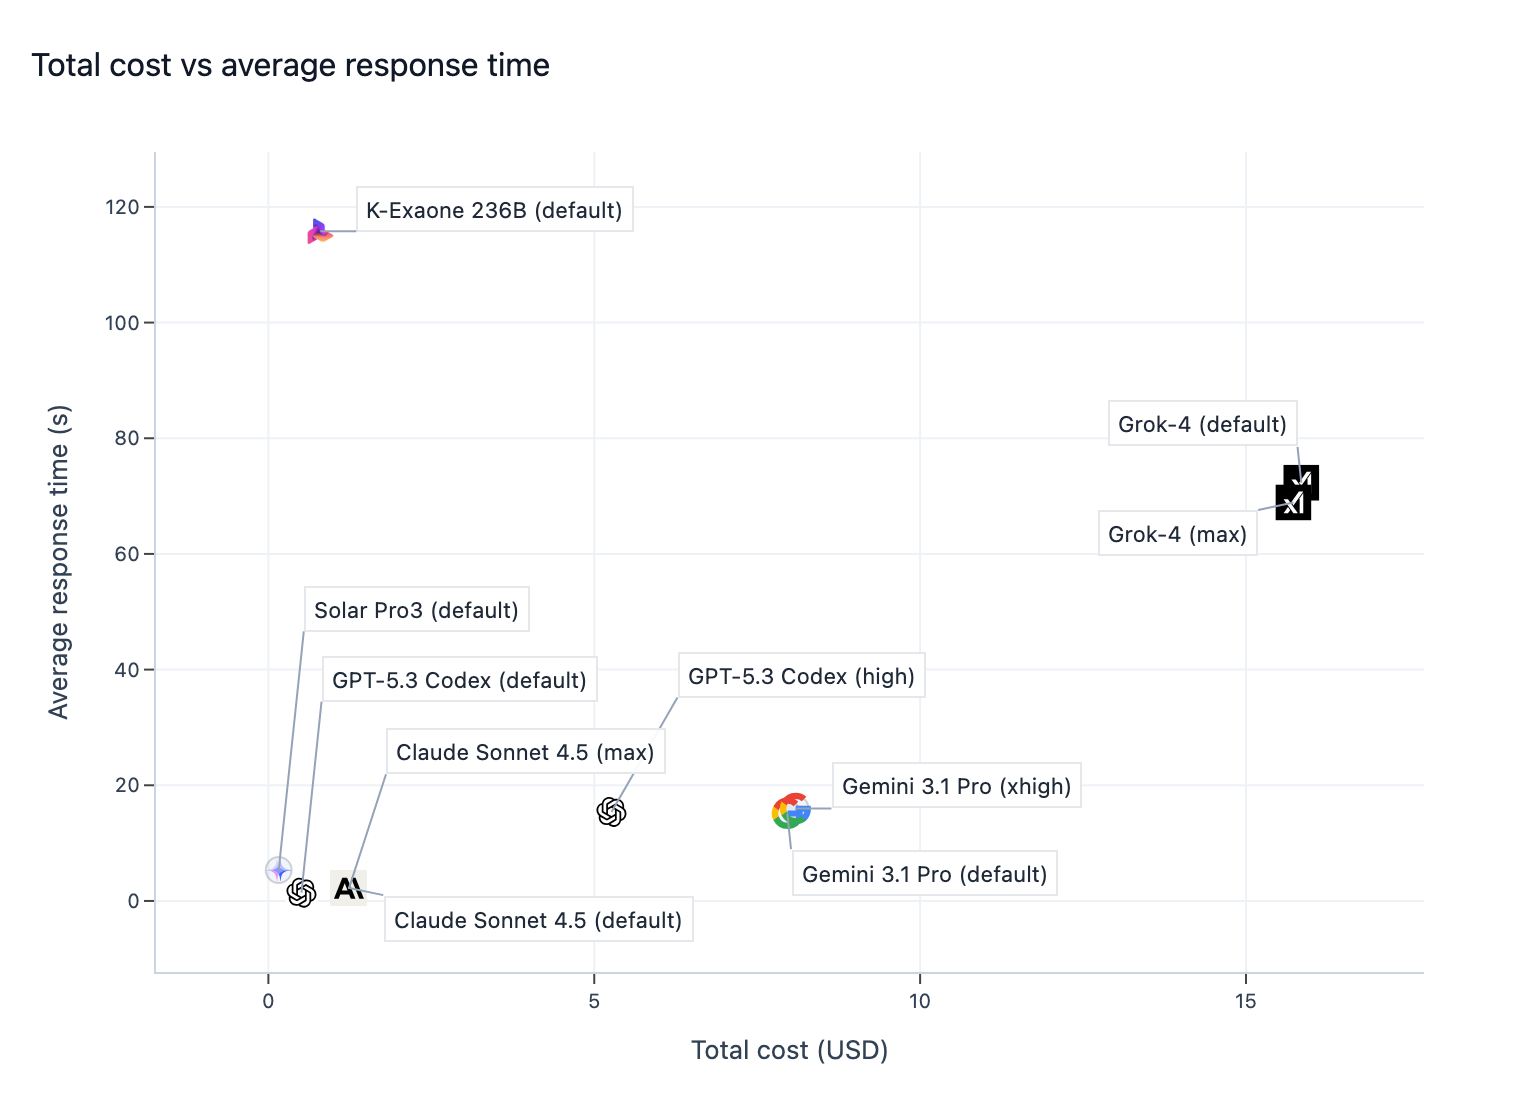
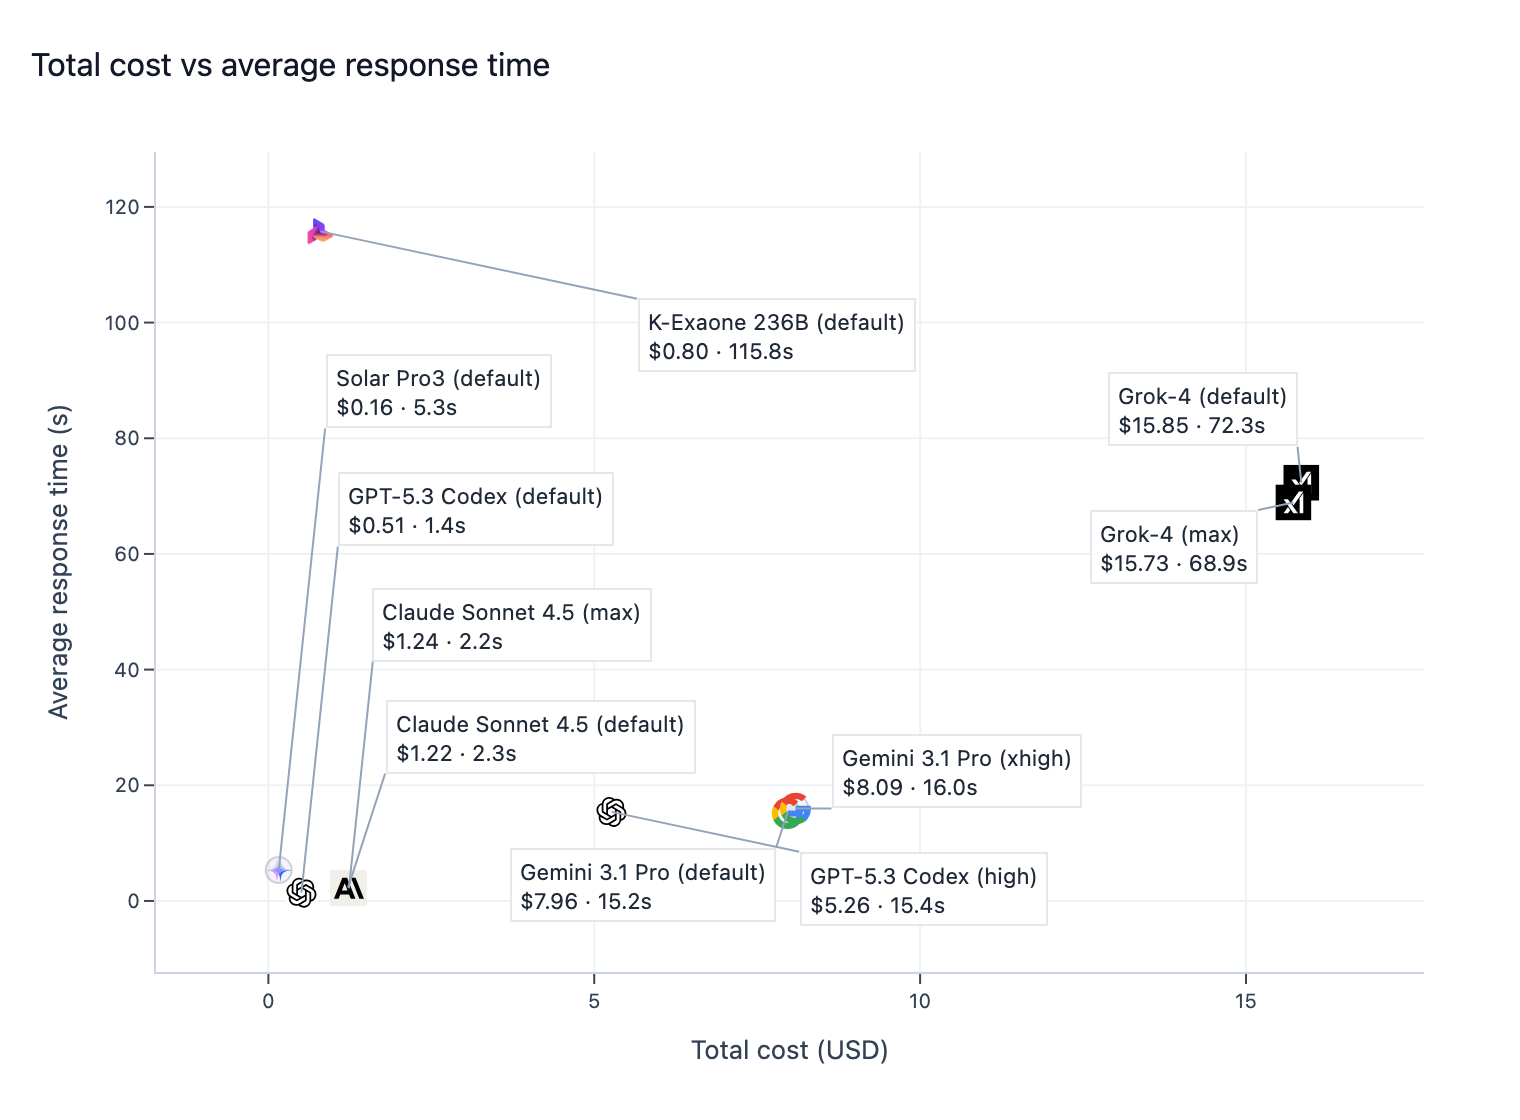
Full revision: render charts as static images, keep tables as markdown
Rebuild the static report directly from the rendered HTML instead of
routing through the Quarto source. Bar charts and heatmaps (leaderboard,
score breakdowns, difficulty, error counts, exam-type/category accuracy)
are now real matplotlib-rendered images with the original YlGnBu color
scale, while the per-exam raw correctness grids stay as collapsible
markdown tables since they're read as lookups rather than viewed as
visualizations. Also fixes title clipping on narrow (2-column) heatmaps
and carries over the updated cost/speed labels (value annotations).

diff --git a/README.md b/README.md
@@ -4,6 +4,8 @@ Static snapshot of an interactive analysis comparing how different LLMs (GPT, Cl
 
 ## Model Leaderboard
 
+![Composite index by model](images/leaderboard.png)
+
 | Rank | Model | Composite Index | Overall Pass@1 (%) | Valid-Response Pass@1 (%) | Error Rate (%) | Cost (USD) | Avg Response Time (s) |
 |---|---|---|---|---|---|---|---|
 | 1 | GPT-5.3 Codex (high) | 100.0 | 100.0 | 100.0 | 0.0 | 5.264 | 15.4 |
@@ -21,97 +23,31 @@ Static snapshot of an interactive analysis comparing how different LLMs (GPT, Cl
 
 ### Model by point-value heatmap: Overall Pass@1 (%)
 
-|  | 2 pt | 3 pt |
-|---|---|---|
-| GPT-5.3 Codex (high) | 100 | 100 |
-| Gemini 3.1 Pro (default) | 100 | 99.33 |
-| Gemini 3.1 Pro (xhigh) | 99.33 | 99.33 |
-| Grok-4 (default) | 94.00 | 91.33 |
-| Grok-4 (max) | 92.67 | 90.67 |
-| GPT-5.3 Codex (default) | 54.67 | 54.00 |
-| Claude Sonnet 4.5 (default) | 57.33 | 49.33 |
-| Claude Sonnet 4.5 (max) | 56.67 | 48.00 |
-| K-Exaone 236B (default) | 64.00 | 68.67 |
-| Solar Pro3 (default) | 46.67 | 34.67 |
+![Model by point-value heatmap: Overall Pass@1 (%)](images/points_overall.png)
 
 ### Model by point-value heatmap: Valid-Response Pass@1 (%)
 
-|  | 2 pt | 3 pt |
-|---|---|---|
-| GPT-5.3 Codex (high) | 100 | 100 |
-| Gemini 3.1 Pro (default) | 100 | 99.33 |
-| Gemini 3.1 Pro (xhigh) | 99.33 | 99.33 |
-| Grok-4 (default) | 99.30 | 98.56 |
-| Grok-4 (max) | 98.58 | 97.14 |
-| GPT-5.3 Codex (default) | 54.67 | 54.00 |
-| Claude Sonnet 4.5 (default) | 57.33 | 49.33 |
-| Claude Sonnet 4.5 (max) | 56.67 | 48.00 |
-| K-Exaone 236B (default) | 98.97 | 99.04 |
-| Solar Pro3 (default) | 46.67 | 34.67 |
+![Model by point-value heatmap: Valid-Response Pass@1 (%)](images/points_valid.png)
 
 ## 3. Score Performance By Image Presence
 
 ### Model by image-presence heatmap: Overall Pass@1 (%)
 
-|  | No Image | Image |
-|---|---|---|
-| GPT-5.3 Codex (high) | 100 | 100 |
-| Gemini 3.1 Pro (default) | 100 | 99.13 |
-| Gemini 3.1 Pro (xhigh) | 99.46 | 99.13 |
-| Grok-4 (default) | 92.43 | 93.04 |
-| Grok-4 (max) | 93.51 | 88.70 |
-| GPT-5.3 Codex (default) | 51.89 | 58.26 |
-| Claude Sonnet 4.5 (default) | 54.05 | 52.17 |
-| Claude Sonnet 4.5 (max) | 52.43 | 52.17 |
-| K-Exaone 236B (default) | 66.49 | 66.09 |
-| Solar Pro3 (default) | 42.16 | 38.26 |
+![Model by image-presence heatmap: Overall Pass@1 (%)](images/image_presence_overall.png)
 
 ### Model by image-presence heatmap: Valid-Response Pass@1 (%)
 
-|  | No Image | Image |
-|---|---|---|
-| GPT-5.3 Codex (high) | 100 | 100 |
-| Gemini 3.1 Pro (default) | 100 | 99.13 |
-| Gemini 3.1 Pro (xhigh) | 99.46 | 99.13 |
-| Grok-4 (default) | 98.28 | 100 |
-| Grok-4 (max) | 97.74 | 98.08 |
-| GPT-5.3 Codex (default) | 51.89 | 58.26 |
-| Claude Sonnet 4.5 (default) | 54.05 | 52.17 |
-| Claude Sonnet 4.5 (max) | 52.43 | 52.17 |
-| K-Exaone 236B (default) | 99.19 | 98.70 |
-| Solar Pro3 (default) | 42.16 | 38.26 |
+![Model by image-presence heatmap: Valid-Response Pass@1 (%)](images/image_presence_valid.png)
 
 ## 4. Point Value x Image Presence
 
 ### Model by point-image segment heatmap: Overall Pass@1 (%)
 
-|  | 2 pt / Image | 2 pt / No Image | 3 pt / Image | 3 pt / No Image |
-|---|---|---|---|---|
-| GPT-5.3 Codex (high) | 100 | 100 | 100 | 100 |
-| Gemini 3.1 Pro (default) | 100 | 100 | 98.18 | 100 |
-| Gemini 3.1 Pro (xhigh) | 100 | 98.89 | 98.18 | 100 |
-| Grok-4 (default) | 93.33 | 94.44 | 92.73 | 90.53 |
-| Grok-4 (max) | 86.67 | 96.67 | 90.91 | 90.53 |
-| GPT-5.3 Codex (default) | 55.00 | 54.44 | 61.82 | 49.47 |
-| Claude Sonnet 4.5 (default) | 50.00 | 62.22 | 54.55 | 46.32 |
-| Claude Sonnet 4.5 (max) | 48.33 | 62.22 | 56.36 | 43.16 |
-| K-Exaone 236B (default) | 60.00 | 66.67 | 72.73 | 66.32 |
-| Solar Pro3 (default) | 40.00 | 51.11 | 36.36 | 33.68 |
+![Model by point-image segment heatmap: Overall Pass@1 (%)](images/point_image_overall.png)
 
 ### Model by point-image segment heatmap: Valid-Response Pass@1 (%)
 
-|  | 2 pt / Image | 2 pt / No Image | 3 pt / Image | 3 pt / No Image |
-|---|---|---|---|---|
-| GPT-5.3 Codex (high) | 100 | 100 | 100 | 100 |
-| Gemini 3.1 Pro (default) | 100 | 100 | 98.18 | 100 |
-| Gemini 3.1 Pro (xhigh) | 100 | 98.89 | 98.18 | 100 |
-| Grok-4 (default) | 100 | 98.84 | 100 | 97.73 |
-| Grok-4 (max) | 98.11 | 98.86 | 98.04 | 96.63 |
-| GPT-5.3 Codex (default) | 55.00 | 54.44 | 61.82 | 49.47 |
-| Claude Sonnet 4.5 (default) | 50.00 | 62.22 | 54.55 | 46.32 |
-| Claude Sonnet 4.5 (max) | 48.33 | 62.22 | 56.36 | 43.16 |
-| K-Exaone 236B (default) | 97.30 | 100 | 100 | 98.44 |
-| Solar Pro3 (default) | 40.00 | 51.11 | 36.36 | 33.68 |
+![Model by point-image segment heatmap: Valid-Response Pass@1 (%)](images/point_image_valid.png)
 
 ## 5. Cost And Speed
 
@@ -121,127 +57,39 @@ Static snapshot of an interactive analysis comparing how different LLMs (GPT, Cl
 
 ### API error count by model (cases)
 
-| Model | Errors |
-|---|---|
-| Solar Pro3 (default) | 0 cases |
-| Claude Sonnet 4.5 (max) | 0 cases |
-| Claude Sonnet 4.5 (default) | 0 cases |
-| GPT-5.3 Codex (default) | 0 cases |
-| Gemini 3.1 Pro (xhigh) | 0 cases |
-| Gemini 3.1 Pro (default) | 0 cases |
-| GPT-5.3 Codex (high) | 0 cases |
-| Grok-4 (max) | 19 cases |
-| Grok-4 (default) | 19 cases |
-| K-Exaone 236B (default) | 99 cases |
+![API error count by model](images/error_count.png)
 
 ## 7. Additional Analysis By Difficulty
 
 ### Model by difficulty heatmap: Overall Pass@1 (%)
 
-|  | Low difficulty | Medium difficulty | High difficulty |
-|---|---|---|---|
-| GPT-5.3 Codex (high) | 100 | 100 | 100 |
-| Gemini 3.1 Pro (default) | 100 | 100 | 66.67 |
-| Gemini 3.1 Pro (xhigh) | 100 | 100 | 33.33 |
-| Grok-4 (default) | 95.95 | 90.32 | 0.00 |
-| Grok-4 (max) | 95.95 | 87.90 | 0.00 |
-| GPT-5.3 Codex (default) | 81.50 | 17.74 | 0.00 |
-| Claude Sonnet 4.5 (default) | 87.28 | 7.26 | 0.00 |
-| Claude Sonnet 4.5 (max) | 87.28 | 4.84 | 0.00 |
-| K-Exaone 236B (default) | 79.19 | 50.00 | 0.00 |
-| Solar Pro3 (default) | 56.65 | 19.35 | 0.00 |
+![Model by difficulty heatmap](images/difficulty.png)
 
 ## 8. Problem-Level Correctness Views
 
 ### Model accuracy by exam type: Overall Pass@1 (%)
 
-|  | CSAT 2026 | CSAT | MCSAT6 | MCSAT9 |
-|---|---|---|---|---|
-| GPT-5.3 Codex (high) | 100 | 100 | 100 | 100 |
-| Gemini 3.1 Pro (default) | 100 | 100 | 99.00 | 100 |
-| Gemini 3.1 Pro (xhigh) | 100 | 100 | 99.00 | 99.00 |
-| Grok-4 (default) | 100 | 100 | 98.94 | 97.83 |
-| Grok-4 (max) | 95.00 | 98.94 | 96.77 | 97.87 |
-| GPT-5.3 Codex (default) | 45.00 | 45.00 | 63.00 | 55.00 |
-| Claude Sonnet 4.5 (default) | 45.00 | 45.00 | 63.00 | 52.00 |
-| Claude Sonnet 4.5 (max) | 45.00 | 45.00 | 58.00 | 54.00 |
-| K-Exaone 236B (default) | 85.71 | 96.61 | 100 | 100 |
-| Solar Pro3 (default) | 45.00 | 39.00 | 44.00 | 39.00 |
+![Model accuracy by exam type: Overall Pass@1 (%)](images/exam_type.png)
 
 ### 2 pt / No Image: Overall Pass@1 (%)
 
-|  | CSAT | MCSAT6 | MCSAT9 |
-|---|---|---|---|
-| GPT-5.3 Codex (high) | 100 | 100 | 100 |
-| Gemini 3.1 Pro (default) | 100 | 100 | 100 |
-| Gemini 3.1 Pro (xhigh) | 100 | 100 | 96.30 |
-| Grok-4 (default) | 100 | 100 | 96.00 |
-| Grok-4 (max) | 100 | 100 | 96.15 |
-| GPT-5.3 Codex (default) | 51.43 | 64.29 | 48.15 |
-| Claude Sonnet 4.5 (default) | 57.14 | 67.86 | 62.96 |
-| Claude Sonnet 4.5 (max) | 60.00 | 60.71 | 66.67 |
-| K-Exaone 236B (default) | 100 | 100 | 100 |
-| Solar Pro3 (default) | 45.71 | 57.14 | 51.85 |
+![2 pt / No Image: Overall Pass@1 (%)](images/segment_2pt_noimage.png)
 
 ### 2 pt / Image: Overall Pass@1 (%)
 
-|  | CSAT | MCSAT6 | MCSAT9 |
-|---|---|---|---|
-| GPT-5.3 Codex (high) | 100 | 100 | 100 |
-| Gemini 3.1 Pro (default) | 100 | 100 | 100 |
-| Gemini 3.1 Pro (xhigh) | 100 | 100 | 100 |
-| Grok-4 (default) | 100 | 100 | 100 |
-| Grok-4 (max) | 91.67 | 100 | 100 |
-| GPT-5.3 Codex (default) | 26.67 | 72.73 | 56.52 |
-| Claude Sonnet 4.5 (default) | 33.33 | 72.73 | 39.13 |
-| Claude Sonnet 4.5 (max) | 26.67 | 72.73 | 39.13 |
-| K-Exaone 236B (default) | 87.50 | 100 | 100 |
-| Solar Pro3 (default) | 40.00 | 40.91 | 39.13 |
+![2 pt / Image: Overall Pass@1 (%)](images/segment_2pt_image.png)
 
 ### 3 pt / No Image: Overall Pass@1 (%)
 
-|  | CSAT | MCSAT6 | MCSAT9 |
-|---|---|---|---|
-| GPT-5.3 Codex (high) | 100 | 100 | 100 |
-| Gemini 3.1 Pro (default) | 100 | 100 | 100 |
-| Gemini 3.1 Pro (xhigh) | 100 | 100 | 100 |
-| Grok-4 (default) | 100 | 95.83 | 96.88 |
-| Grok-4 (max) | 100 | 92.00 | 96.97 |
-| GPT-5.3 Codex (default) | 38.24 | 51.85 | 58.82 |
-| Claude Sonnet 4.5 (default) | 38.24 | 55.56 | 47.06 |
-| Claude Sonnet 4.5 (max) | 35.29 | 44.44 | 50.00 |
-| K-Exaone 236B (default) | 95.24 | 100 | 100 |
-| Solar Pro3 (default) | 35.29 | 37.04 | 29.41 |
+![3 pt / No Image: Overall Pass@1 (%)](images/segment_3pt_noimage.png)
 
 ### 3 pt / Image: Overall Pass@1 (%)
 
-|  | CSAT | MCSAT6 | MCSAT9 |
-|---|---|---|---|
-| GPT-5.3 Codex (high) | 100 | 100 | 100 |
-| Gemini 3.1 Pro (default) | 100 | 95.65 | 100 |
-| Gemini 3.1 Pro (xhigh) | 100 | 95.65 | 100 |
-| Grok-4 (default) | 100 | 100 | 100 |
-| Grok-4 (max) | 100 | 95.24 | 100 |
-| GPT-5.3 Codex (default) | 62.50 | 65.22 | 56.25 |
-| Claude Sonnet 4.5 (default) | 43.75 | 56.52 | 62.50 |
-| Claude Sonnet 4.5 (max) | 50.00 | 56.52 | 62.50 |
-| K-Exaone 236B (default) | 100 | 100 | 100 |
-| Solar Pro3 (default) | 31.25 | 39.13 | 37.50 |
+![3 pt / Image: Overall Pass@1 (%)](images/segment_3pt_image.png)
 
 ### Model accuracy by category: Overall Pass@1 (%)
 
-|  | Finance | General Economics | International Economics | Macroeconomics | Microeconomics |
-|---|---|---|---|---|---|
-| GPT-5.3 Codex (high) | 100 | 100 | 100 | 100 | 100 |
-| Gemini 3.1 Pro (default) | 100 | 100 | 100 | 98.80 | 100 |
-| Gemini 3.1 Pro (xhigh) | 100 | 100 | 98.31 | 98.80 | 100 |
-| Grok-4 (default) | 100 | 96.55 | 96.23 | 100 | 100 |
-| Grok-4 (max) | 100 | 93.94 | 94.34 | 100 | 98.85 |
-| GPT-5.3 Codex (default) | 50.00 | 73.53 | 42.37 | 61.45 | 50.00 |
-| Claude Sonnet 4.5 (default) | 53.33 | 67.65 | 28.81 | 63.86 | 54.26 |
-| Claude Sonnet 4.5 (max) | 50.00 | 79.41 | 27.12 | 59.04 | 53.19 |
-| K-Exaone 236B (default) | 100 | 100 | 96.67 | 100 | 98.31 |
-| Solar Pro3 (default) | 33.33 | 58.82 | 27.12 | 46.99 | 39.36 |
+![Model accuracy by category: Overall Pass@1 (%)](images/category.png)
 
 ### Raw correctness grids (per exam)
 